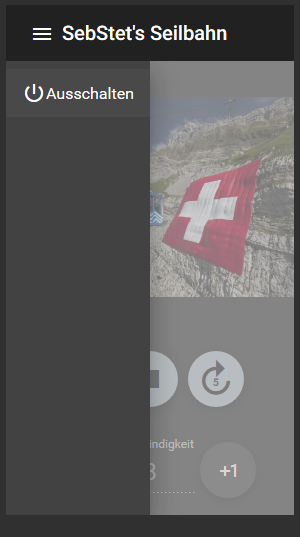
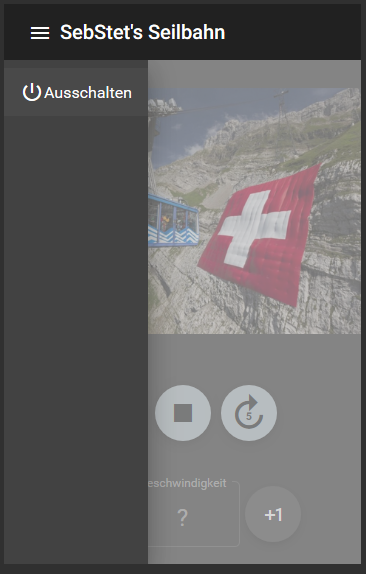
UX changes

diff --git a/frontend-app/dist/frontend-app/main.js b/frontend-app/dist/frontend-app/main.js
@@ -153,7 +153,7 @@ module.exports = "\n/*# sourceMappingURL=data:application/json;base64,eyJ2ZXJzaW
 /*! no static exports found */
 /***/ (function(module, exports) {
 
-module.exports = "<mat-grid-list cols=\"1\" rowHeight=\"90\">\r\n  <mat-grid-tile colspan=\"1\" rowspan=\"3\"> \r\n    <img src=\"assets/seilbahn.jpg\">\r\n  </mat-grid-tile>\r\n  <mat-grid-tile colspan=\"1\" rowspan=\"1\">\r\n    <button mat-fab style=\"margin: 5px; \" (click)=\"onStartLeft()\">\r\n      <mat-icon style=\"font-size: 42px; display: flex; align-items: center; justify-content: center;\">replay_5</mat-icon>\r\n    </button>\r\n    <button mat-fab style=\"margin: 5px\" (click)=\"onStop()\">\r\n      <mat-icon  style=\"font-size: 36px; display: flex; align-items: center; justify-content: center;\">stop</mat-icon>\r\n    </button>\r\n    <button mat-fab style=\"margin: 5px\" (click)=\"onStartRight()\">\r\n      <mat-icon  style=\"font-size: 42px; display: flex; align-items: center; justify-content: center;\">forward_5</mat-icon>\r\n    </button>\r\n  </mat-grid-tile>\r\n  <mat-grid-tile colspan=\"1\" rowspan=\"1\">   \r\n    <button mat-fab color=\"basic\" style=\"margin: 5px\" (click)=\"onSlower()\">\r\n      <mat-icon>exposure_neg_1</mat-icon>\r\n    </button>\r\n    <mat-form-field appearance=\"standard\" color=\"basic\" style=\"width: 90px; text-align: center\" > \r\n      <mat-label>Geschwindigkeit</mat-label>\r\n      <input matInput disabled=true [value]=\"speed\" style=\"font-size: 24px\" > \r\n    </mat-form-field>\r\n    <button mat-fab color=\"basic\" style=\"margin: 5px\" (click)=\"onFaster()\">\r\n      <mat-icon>exposure_plus_1</mat-icon>\r\n    </button>\r\n  </mat-grid-tile>\r\n</mat-grid-list>\r\n"
+module.exports = "<mat-grid-list cols=\"1\" rowHeight=\"100\">\r\n  <mat-grid-tile colspan=\"1\" rowspan=\"3\"> \r\n    <img src=\"assets/seilbahn.jpg\">\r\n  </mat-grid-tile>\r\n  <mat-grid-tile colspan=\"1\" rowspan=\"1\">\r\n    <button mat-fab style=\"margin: 5px; \" (click)=\"onStartLeft()\">\r\n      <mat-icon style=\"font-size: 42px; display: flex; align-items: center; justify-content: center;\">replay_5</mat-icon>\r\n    </button>\r\n    <button mat-fab style=\"margin: 5px\" (click)=\"onStop()\">\r\n      <mat-icon  style=\"font-size: 36px; display: flex; align-items: center; justify-content: center;\">stop</mat-icon>\r\n    </button>\r\n    <button mat-fab style=\"margin: 5px\" (click)=\"onStartRight()\">\r\n      <mat-icon  style=\"font-size: 42px; display: flex; align-items: center; justify-content: center;\">forward_5</mat-icon>\r\n    </button>\r\n  </mat-grid-tile>\r\n  <mat-grid-tile colspan=\"1\" rowspan=\"1\">   \r\n    <button mat-fab color=\"basic\" style=\"margin: 5px\" (click)=\"onSlower()\">\r\n      <mat-icon>exposure_neg_1</mat-icon>\r\n    </button>\r\n    <mat-form-field appearance=\"outline\" color=\"basic\" style=\"width: 115px; height: 75px; text-align: center\" > \r\n      <mat-label>Geschwindigkeit</mat-label>\r\n      <input matInput disabled=true [value]=\"speed\" style=\"font-size: 24px\" > \r\n    </mat-form-field>\r\n    <button mat-fab color=\"basic\" style=\"margin: 5px\" (click)=\"onFaster()\">\r\n      <mat-icon>exposure_plus_1</mat-icon>\r\n    </button>\r\n  </mat-grid-tile>\r\n</mat-grid-list>\r\n"
 
 /***/ }),
 

diff --git a/frontend-app/src/app/cableway/cableway.component.html b/frontend-app/src/app/cableway/cableway.component.html
@@ -1,4 +1,4 @@
-<mat-grid-list cols="1" rowHeight="90">
+<mat-grid-list cols="1" rowHeight="100">
   <mat-grid-tile colspan="1" rowspan="3"> 
     <img src="assets/seilbahn.jpg">
   </mat-grid-tile>
@@ -17,7 +17,7 @@
     <button mat-fab color="basic" style="margin: 5px" (click)="onSlower()">
       <mat-icon>exposure_neg_1</mat-icon>
     </button>
-    <mat-form-field appearance="standard" color="basic" style="width: 90px; text-align: center" > 
+    <mat-form-field appearance="outline" color="basic" style="width: 115px; height: 75px; text-align: center" > 
       <mat-label>Geschwindigkeit</mat-label>
       <input matInput disabled=true [value]="speed" style="font-size: 24px" > 
     </mat-form-field>
